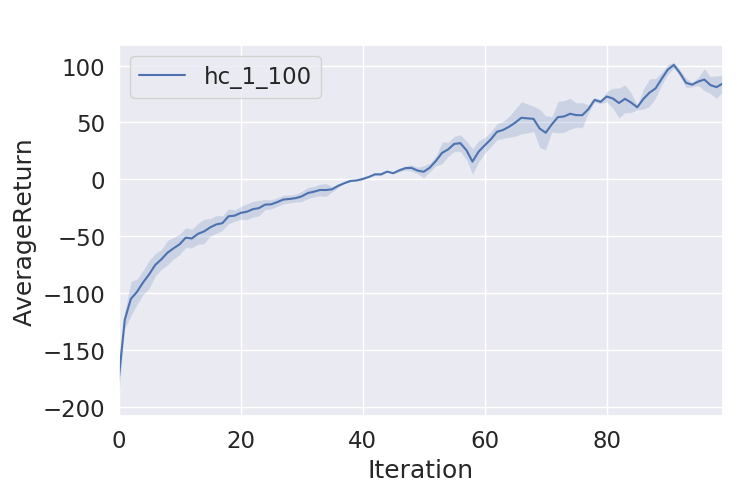
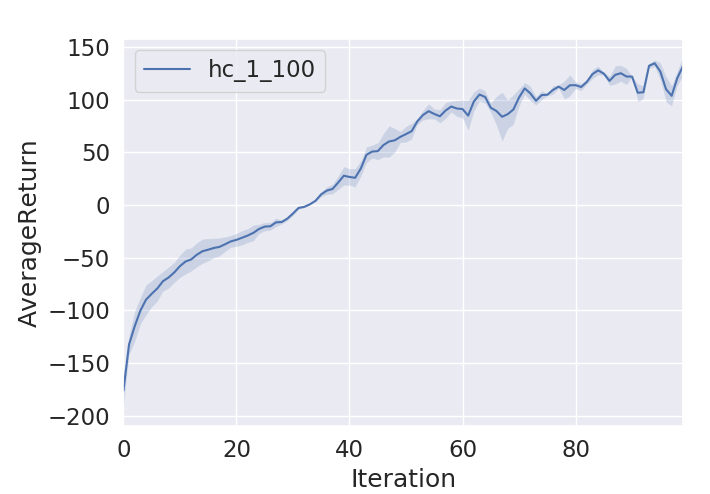
debug update_critic

diff --git a/hw3/train_ac_f18.py b/hw3/train_ac_f18.py
@@ -384,10 +384,11 @@ class Agent(object):
         # self.num_grad_steps_per_target_update number of steps
         n = self.num_grad_steps_per_target_update * self.num_target_updates
         for t in range(0, n):
-            next_v_n = self.sess.run(self.critic_prediction, feed_dict={self.sy_ob_no: next_ob_no})
-            target_n = re_n + (1 - terminal_n) * self.gamma * next_v_n
-            if t % self.num_grad_steps_per_target_update:
-                self.sess.run(self.critic_update_op, feed_dict={self.sy_target_n: target_n, self.sy_ob_no: ob_no})
+            if t % self.num_grad_steps_per_target_update == 0:
+                next_v_n = self.sess.run(self.critic_prediction, feed_dict={self.sy_ob_no: next_ob_no})
+                target_n = re_n + (1 - terminal_n) * self.gamma * next_v_n
+
+            self.sess.run(self.critic_update_op, feed_dict={self.sy_target_n: target_n, self.sy_ob_no: ob_no})
 
     def update_actor(self, ob_no, ac_na, adv_n):
         """ 
